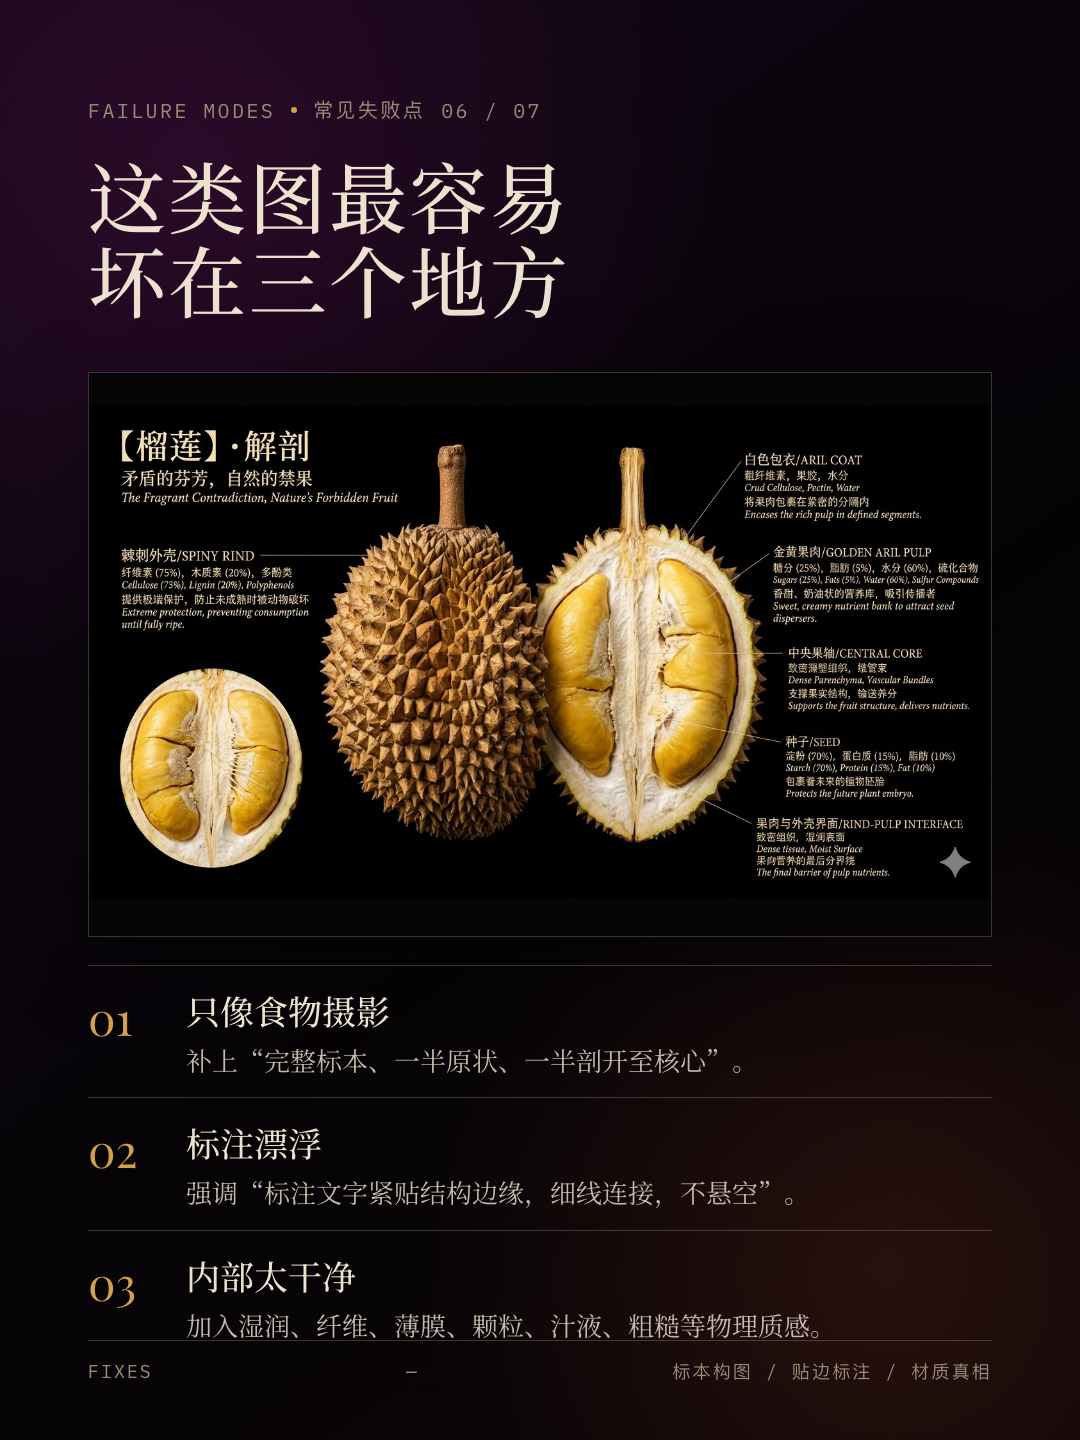
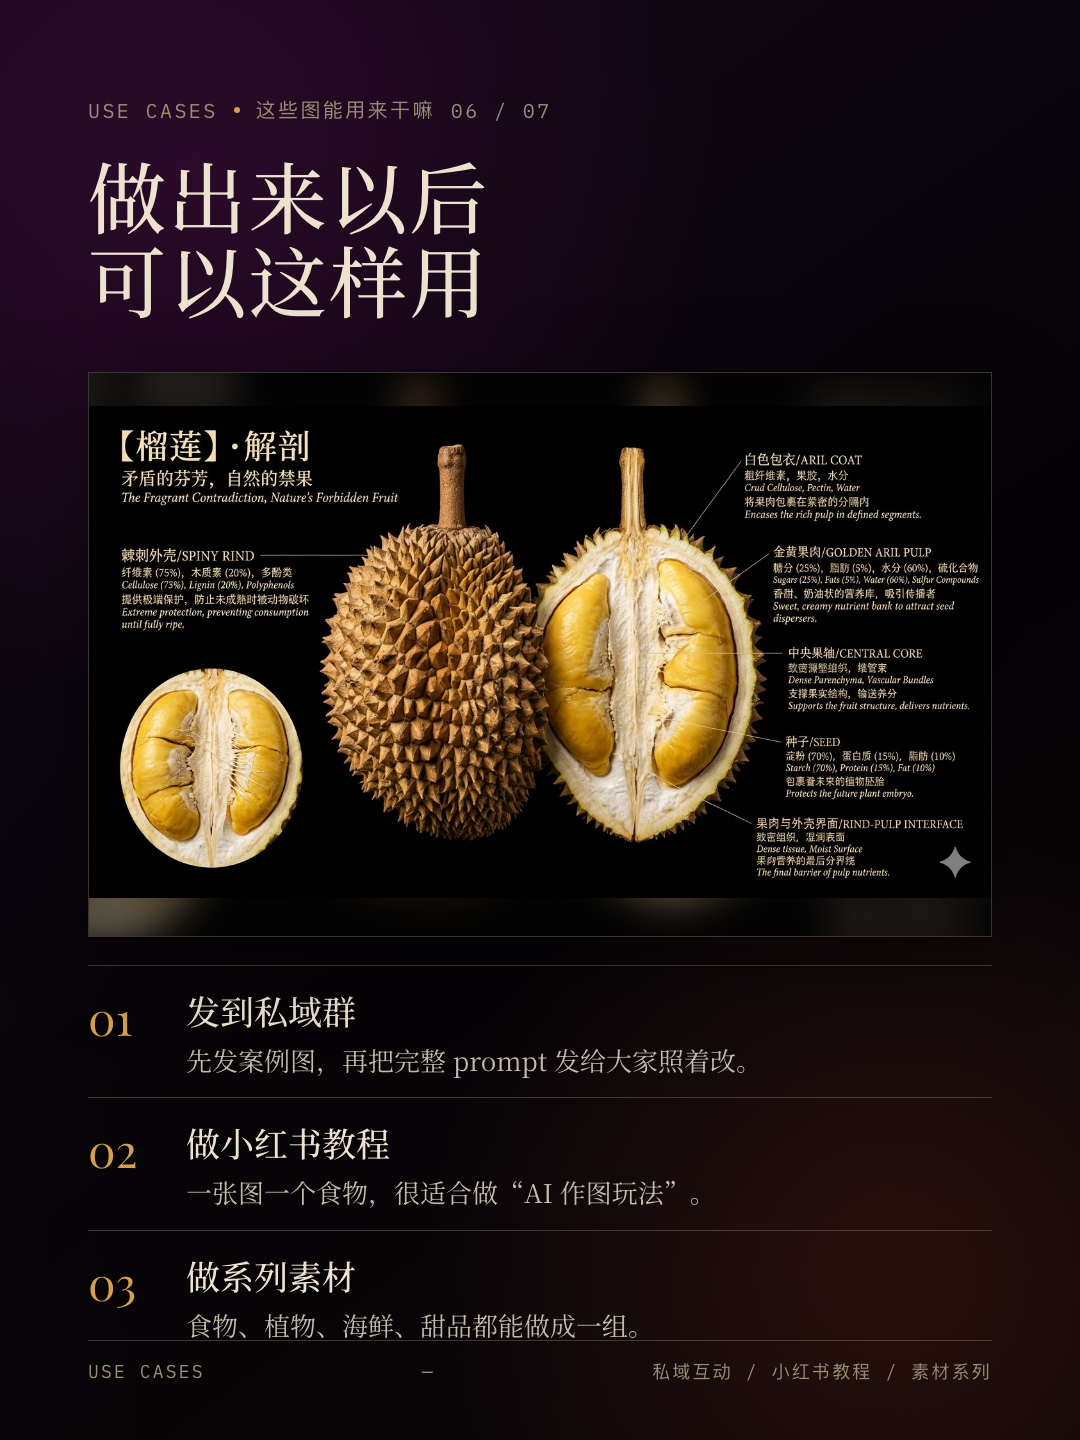
Simplify specimen prompt cards for beginners

diff --git a/social-card-specimen-prompt/index.html b/social-card-specimen-prompt/index.html
@@ -778,30 +778,49 @@
     .specimen .photo-hero,
     .specimen .photo-grid figure,
     .specimen .photo-row figure,
-    .specimen .mini-photo {
+    .specimen .mini-photo,
+    .specimen .frame-img {
+      position: relative;
       overflow: hidden;
       border: 1px solid rgba(var(--ink-rgb), .22);
       background: #050505;
       box-shadow: 0 24px 80px rgba(0, 0, 0, .34);
     }
+    .specimen .photo-hero::before,
+    .specimen .photo-grid figure::before,
+    .specimen .photo-row figure::before,
+    .specimen .mini-photo::before,
+    .specimen .frame-img::before {
+      content: "";
+      position: absolute;
+      inset: -24px;
+      background-image: var(--bg-img);
+      background-size: cover;
+      background-position: center;
+      filter: blur(18px);
+      opacity: .42;
+      transform: scale(1.08);
+      z-index: 0;
+    }
     .specimen .photo-hero img,
     .specimen .photo-grid img,
     .specimen .photo-row img,
     .specimen .mini-photo img,
-    .specimen .frame-img img { width: 100%; height: 100%; object-fit: contain; display: block; }
+    .specimen .frame-img img { width: 100%; height: 100%; object-fit: contain; display: block; position: relative; z-index: 1; }
     .specimen .photo-hero { height: 650px; }
     .specimen .photo-grid { display: grid; grid-template-columns: 1fr 1fr; gap: 18px; }
     .specimen .photo-grid figure { height: 300px; position: relative; display: flex; flex-direction: column; }
     .specimen .photo-grid figure img { height: 246px; }
     .specimen .photo-grid figcaption,
     .specimen .photo-row figcaption {
-      position: static;
+      position: relative;
       height: 54px;
       padding: 12px 16px 0;
       font-family: var(--serif-zh); font-size: 22px;
       color: var(--ink);
       background: rgba(0,0,0,.72);
       text-shadow: none;
+      z-index: 2;
     }
     .specimen .photo-row { display: grid; grid-template-columns: 1fr 1fr 1fr; gap: 16px; }
     .specimen .photo-row figure { height: 285px; position: relative; display: flex; flex-direction: column; }
@@ -851,16 +870,16 @@
         <div class="issue-row">
           <span>GPT-IMAGE 2</span><span class="dot"></span><span>SPECIMEN PROMPT</span><span>01 / 07</span>
         </div>
-        <p class="kicker">Prompt Cookbook · 黑丝绒标本图</p>
-        <h1 class="h-display">把任何食物<br>拍成博物标本</h1>
-        <p class="h-sub">不是写“高级摄影”，而是规定视角、结构、光线和标注。</p>
+        <p class="kicker">Prompt Cookbook · 小白照填版</p>
+        <h1 class="h-display">复制这段提示词<br>改括号就能用</h1>
+        <p class="h-sub">不用会写 prompt。你只要把方括号里的内容换成自己的食物。</p>
         <figure class="frame-img r-16x10">
           <img src="assets/abalone.png" alt="鲍鱼解剖风格案例" style="object-position:center 42%">
         </figure>
-        <p class="lead">这套 prompt 的本质：让 AI 同时扮演博物学家、摄影师、解剖师和版式编辑。</p>
+        <p class="lead">想做这种“食物解剖图”？照着后面的模板填空，然后丢给 GPT-Image 2。</p>
       </div>
       <div class="issue-strip">
-        <span>Creators Desk · Private Notes</span>
+        <span>Creators Desk · Prompt Notes</span>
         <span>—</span>
         <span>鲍鱼 / 鸡蛋 / 小龙虾 / 草莓 / 蒲公英 / 榴莲</span>
       </div>
@@ -871,20 +890,20 @@
       <div class="grain"></div>
       <div class="content">
         <div class="issue-row">
-          <span>FORMULA</span><span class="dot"></span><span>四层结构</span><span>02 / 07</span>
+          <span>STEP 01</span><span class="dot"></span><span>先选一个食物</span><span>02 / 07</span>
         </div>
-        <h1 class="h-display">先别急着换食物<br>先锁死画面公式</h1>
+        <h1 class="h-display">第一步<br>只换食物名称</h1>
         <div class="split">
           <figure class="mini-photo"><img src="assets/egg.png" alt="鸡蛋解剖风格案例" style="object-position:center 40%"></figure>
           <div class="rule-list">
-            <div class="rule-item"><b>01</b><div><h3>标本视角</h3><p>“博物学大师发现野外标本”，让画面有收藏和发现感。</p></div></div>
-            <div class="rule-item"><b>02</b><div><h3>暴力截面</h3><p>“剖开至核心”，逼模型给出完整、锋利、可读的内部结构。</p></div></div>
-            <div class="rule-item"><b>03</b><div><h3>卡拉瓦乔光</h3><p>黑底强侧光，让材质发亮，而不是普通棚拍。</p></div></div>
-            <div class="rule-item"><b>04</b><div><h3>三行标注</h3><p>结构名、成分数据、人话解释，决定它像“科学图鉴”。</p></div></div>
+            <div class="rule-item"><b>01</b><div><h3>先写一个具体食物</h3><p>比如：鸡蛋、草莓、榴莲、鲍鱼、小龙虾。</p></div></div>
+            <div class="rule-item"><b>02</b><div><h3>不要写太大的类别</h3><p>不要写“水果”。要写“草莓”“石榴”“牛油果”。</p></div></div>
+            <div class="rule-item"><b>03</b><div><h3>简单食物也可以</h3><p>越常见，用户越容易看懂效果，比如鸡蛋。</p></div></div>
+            <div class="rule-item"><b>04</b><div><h3>直接替换这里</h3><p>把[食物名称]全部换成同一个名字。</p></div></div>
           </div>
         </div>
       </div>
-      <div class="issue-strip"><span>Prompt logic</span><span>—</span><span>视角 / 截面 / 光线 / 标注</span></div>
+      <div class="issue-strip"><span>Simple rule</span><span>—</span><span>先别改别的，只换食物名</span></div>
     </section>
 
     <section class="poster xhs specimen" id="xhs-03">
@@ -892,17 +911,17 @@
       <div class="grain"></div>
       <div class="content">
         <div class="issue-row">
-          <span>VARIABLES</span><span class="dot"></span><span>只替换这 6 处</span><span>03 / 07</span>
+          <span>STEP 02</span><span class="dot"></span><span>写外面和里面</span><span>03 / 07</span>
         </div>
-        <h1 class="h-display">真正要填的<br>不是整段 prompt</h1>
+        <h1 class="h-display">第二步<br>填两个描述</h1>
         <figure class="photo-hero"><img src="assets/strawberry.png" alt="草莓解剖风格案例" style="object-position:center 46%"></figure>
         <div class="rule-list">
-          <div class="rule-item"><b>A</b><div><h3>食物名称 + 外表面</h3><p>颜色、质感、纹理必须具体：粗糙、湿润、斑驳、透明、纤维化。</p></div></div>
-          <div class="rule-item"><b>B</b><div><h3>核心结构 + 横截面细节</h3><p>写 1-2 个最有视觉张力的内部特征，别写一堆百科词。</p></div></div>
-          <div class="rule-item"><b>C</b><div><h3>6 个标注点</h3><p>每个标注都要能指向结构边缘，不要让文字漂在空中。</p></div></div>
+          <div class="rule-item"><b>A</b><div><h3>外表面长什么样</h3><p>例：红色、有籽、湿润、有光泽。</p></div></div>
+          <div class="rule-item"><b>B</b><div><h3>切开后看见什么</h3><p>例：白色髓心、果肉纹理、汁液层。</p></div></div>
+          <div class="rule-item"><b>C</b><div><h3>不会写就写大白话</h3><p>不要怕不专业，先把你看见的东西写出来。</p></div></div>
         </div>
       </div>
-      <div class="issue-strip"><span>Template variables</span><span>—</span><span>名称 / 外观 / 核心 / 细节 / 标注 / 副标题</span></div>
+      <div class="issue-strip"><span>Fill blanks</span><span>—</span><span>外面怎么长 / 里面有什么</span></div>
     </section>
 
     <section class="poster xhs specimen" id="xhs-04">
@@ -910,9 +929,9 @@
       <div class="grain"></div>
       <div class="content">
         <div class="issue-row">
-          <span>REFERENCE WALL</span><span class="dot"></span><span>案例墙</span><span>04 / 07</span>
+          <span>EXAMPLES</span><span class="dot"></span><span>照着这种感觉做</span><span>04 / 07</span>
         </div>
-        <h1 class="h-display">判断成片好不好<br>看这 6 个信号</h1>
+        <h1 class="h-display">这些图不是教材<br>只是给你看效果</h1>
         <div class="photo-grid">
           <figure><img src="assets/abalone.png" alt="鲍鱼案例"><figcaption>01 鲍鱼：外壳与软体反差</figcaption></figure>
           <figure><img src="assets/egg.png" alt="鸡蛋案例"><figcaption>02 鸡蛋：透明膜与蛋黄核心</figcaption></figure>
@@ -922,7 +941,7 @@
           <figure><img src="assets/durian.png" alt="榴莲案例"><figcaption>06 榴莲：刺壳与果肉分房</figcaption></figure>
         </div>
       </div>
-      <div class="issue-strip"><span>Good output signals</span><span>—</span><span>完整标本 / 半原状半剖开 / 标注贴边 / 黑丝绒背景</span></div>
+      <div class="issue-strip"><span>Look for this</span><span>—</span><span>黑底 / 切开 / 有标注 / 像收藏品</span></div>
     </section>
 
     <section class="poster xhs specimen" id="xhs-05">
@@ -930,25 +949,25 @@
       <div class="grain"></div>
       <div class="content">
         <div class="issue-row">
-          <span>ANNOTATION</span><span class="dot"></span><span>标注不是装饰</span><span>05 / 07</span>
+          <span>STEP 03</span><span class="dot"></span><span>标注这样写</span><span>05 / 07</span>
         </div>
-        <h1 class="h-display">标注写不好<br>画面就不像图鉴</h1>
+        <h1 class="h-display">第三步<br>写 6 个小标注</h1>
         <div class="split">
           <figure class="mini-photo"><img src="assets/lobster.png" alt="小龙虾解剖风格案例" style="object-position:center 44%"></figure>
           <div>
-            <p class="callout">每处标注固定三行：<br>结构名称 / 成分数据 / 一句人话。</p>
-            <div class="prompt-box">复眼
-成分：几丁质 + 蛋白质
-功能：捕捉光影，感知危险与猎物
+            <p class="callout">每个标注都按这个格式：<br>名字 / 成分 / 作用。</p>
+            <div class="prompt-box">蛋壳
+成分：碳酸钙
+作用：保护里面的蛋黄和蛋白
 
-鳃
-成分：蛋白质 + 血红素
-功能：水中呼吸的核心，提取溶解氧</div>
-            <p class="small-note">写法要“像科学，但不冷冰冰”。数据给可信感，人话给传播感。</p>
+蛋黄
+成分：脂肪 + 蛋白质
+作用：提供主要营养和颜色</div>
+            <p class="small-note">不会写成分就写常识，大概也可以。重点是让画面有标注。</p>
           </div>
         </div>
       </div>
-      <div class="issue-strip"><span>Annotation rule</span><span>—</span><span>结构名 / 成分 / 功能解释</span></div>
+      <div class="issue-strip"><span>Annotation</span><span>—</span><span>名字 / 成分 / 作用</span></div>
     </section>
 
     <section class="poster xhs specimen" id="xhs-06">
@@ -956,17 +975,17 @@
       <div class="grain"></div>
       <div class="content">
         <div class="issue-row">
-          <span>FAILURE MODES</span><span class="dot"></span><span>常见失败点</span><span>06 / 07</span>
+          <span>USE CASES</span><span class="dot"></span><span>这些图能用来干嘛</span><span>06 / 07</span>
         </div>
-        <h1 class="h-display">这类图最容易<br>坏在三个地方</h1>
+        <h1 class="h-display">做出来以后<br>可以这样用</h1>
         <figure class="photo-hero"><img src="assets/durian.png" alt="榴莲解剖风格案例" style="object-position:center 46%"></figure>
         <div class="rule-list">
-          <div class="rule-item"><b>01</b><div><h3>只像食物摄影</h3><p>补上“完整标本、一半原状、一半剖开至核心”。</p></div></div>
-          <div class="rule-item"><b>02</b><div><h3>标注漂浮</h3><p>强调“标注文字紧贴结构边缘，细线连接，不悬空”。</p></div></div>
-          <div class="rule-item"><b>03</b><div><h3>内部太干净</h3><p>加入湿润、纤维、薄膜、颗粒、汁液、粗糙等物理质感。</p></div></div>
+          <div class="rule-item"><b>01</b><div><h3>发到私域群</h3><p>先发案例图，再把完整 prompt 发给大家照着改。</p></div></div>
+          <div class="rule-item"><b>02</b><div><h3>做小红书教程</h3><p>一张图一个食物，很适合做“AI 作图玩法”。</p></div></div>
+          <div class="rule-item"><b>03</b><div><h3>做系列素材</h3><p>食物、植物、海鲜、甜品都能做成一组。</p></div></div>
         </div>
       </div>
-      <div class="issue-strip"><span>Fixes</span><span>—</span><span>标本构图 / 贴边标注 / 材质真相</span></div>
+      <div class="issue-strip"><span>Use cases</span><span>—</span><span>私域互动 / 小红书教程 / 素材系列</span></div>
     </section>
 
     <section class="poster xhs specimen" id="xhs-07">
@@ -974,22 +993,25 @@
       <div class="grain"></div>
       <div class="content">
         <div class="issue-row">
-          <span>COPY BLOCK</span><span class="dot"></span><span>直接复制这一段</span><span>07 / 07</span>
+          <span>FINAL CHECK</span><span class="dot"></span><span>发图前检查</span><span>07 / 07</span>
         </div>
-        <h1 class="h-display">通用模板<br>换括号就能用</h1>
+        <h1 class="h-display">不用放全文<br>只告诉他改哪</h1>
         <div class="photo-row">
           <figure><img src="assets/dandelion.png" alt="蒲公英案例"><figcaption>植物也能用</figcaption></figure>
           <figure><img src="assets/egg.png" alt="鸡蛋案例"><figcaption>简单食材更清楚</figcaption></figure>
           <figure><img src="assets/abalone.png" alt="鲍鱼案例"><figcaption>复杂结构更惊艳</figcaption></figure>
         </div>
-        <div class="prompt-box">一颗/一块/一枚【食物名称】，以博物学大师发现野外标本的方式解剖。
-一半保持原状，展示【外表面质感/颜色/纹理】；另一半剖开至核心，呈现【1-2 个内部视觉特征】。
-黑丝绒背景，卡拉瓦乔式强侧光，内部结构以自身材质发光。
-主标题：【食物名称】·解剖。副标题：【不超过 15 字的本质句】。
-标注 6 处，每处三行：结构名称 / 成分数据 / 一句人话解释。</div>
-        <p class="small-note">如果要发私域，可以先发案例图，再把模板丢给用户，让他只填括号。</p>
+        <div class="prompt-box">让用户只改这 5 个地方：
+1. 食物名称
+2. 外面长什么样
+3. 切开后看见什么
+4. 一句短短的副标题
+5. 6 个小标注
+
+完整 prompt 放在群消息正文里。</div>
+        <p class="small-note">图片负责降低理解成本。正文负责承载完整提示词。</p>
       </div>
-      <div class="issue-strip"><span>Reusable prompt</span><span>—</span><span>换食物、换结构、换标注即可</span></div>
+      <div class="issue-strip"><span>Beginner checklist</span><span>—</span><span>看图理解，正文复制</span></div>
     </section>
 
   </main>
@@ -997,6 +1019,13 @@
   <!-- Magazine WebGL background (deterministic ink-flow) -->
   <script src="assets/magazine-bg-webgl.js"></script>
   <script>
+    document.querySelectorAll(".specimen figure").forEach(function (figure) {
+      var img = figure.querySelector("img");
+      if (img && img.getAttribute("src")) {
+        figure.style.setProperty("--bg-img", "url('" + img.getAttribute("src") + "')");
+      }
+    });
+
     (function () {
       function cssVarRgb(name, fallback) {
         var raw = getComputedStyle(document.documentElement).getPropertyValue(name).trim();
